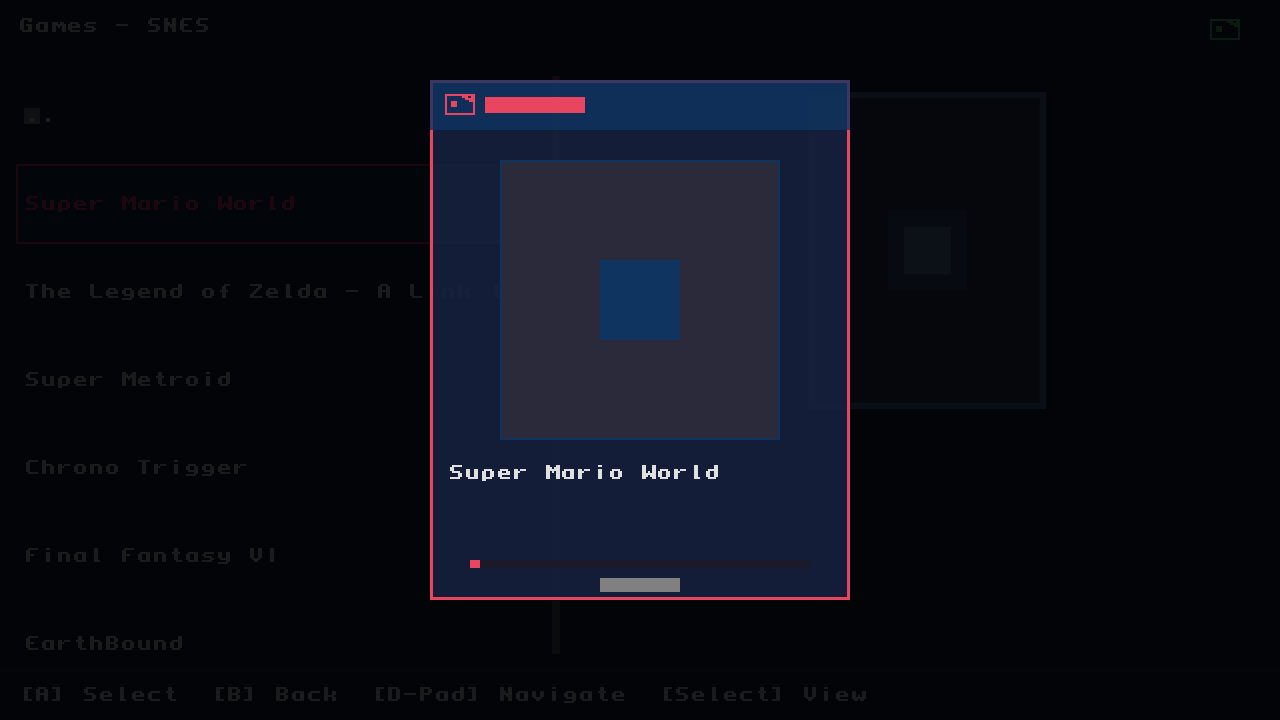
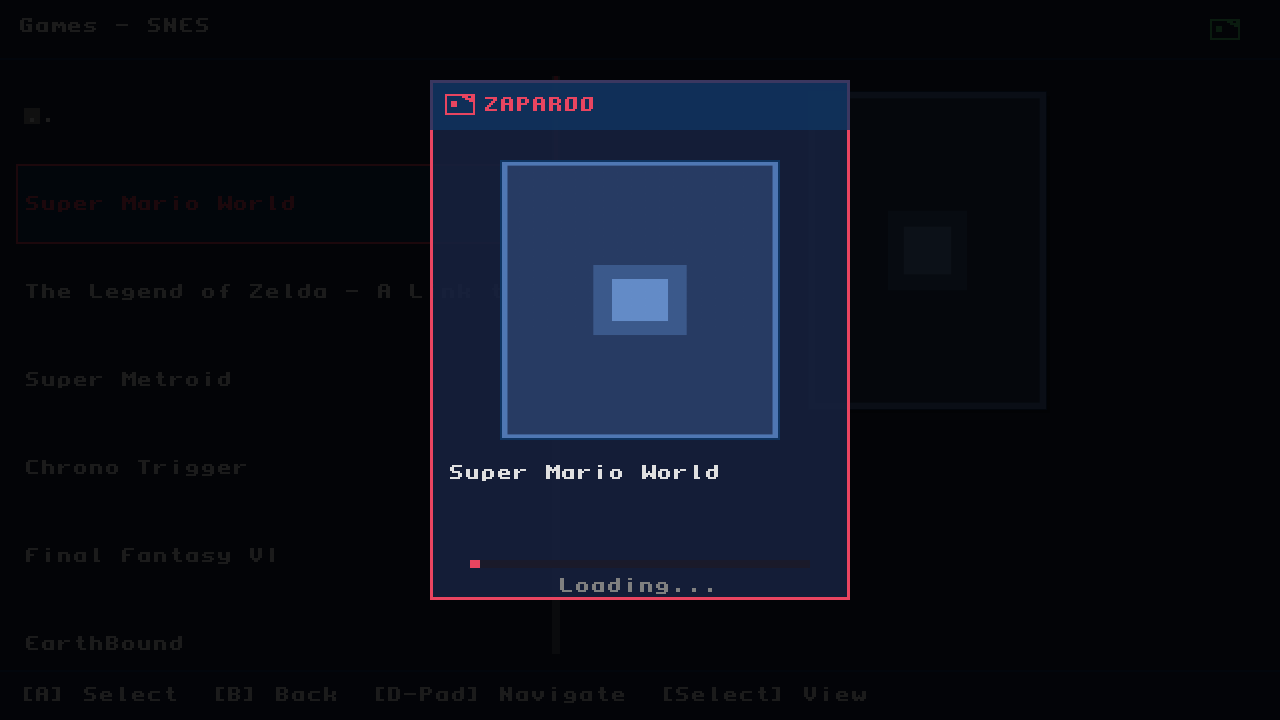
Improve Zaparoo overlay visuals and boxart handling
Replaces placeholder rectangles for the 'ZAPAROO' title and 'Loading...' text with actual text rendering. Adds support for displaying game boxart if available, with a fallback placeholder background if not. Updates the preview overlay image.

Changed region(s): [[0.375, 0.2139, 0.625, 0.6111], [0.375, 0.1222, 0.4688, 0.1833], [0.4375, 0.7944, 0.5312, 0.825]]

diff --git a/gfx_menu.cpp b/gfx_menu.cpp
@@ -1504,9 +1504,8 @@ static void render_zaparoo_overlay(Imlib_Image canvas)
 	// NFC icon in header
 	draw_nfc_icon(canvas, card_x + 15, card_y + 10, 30, theme->colors.text_highlight);
 
-	// "ZAPAROO" title placeholder
-	gfx_rect_t title_text = { card_x + 55, card_y + 17, 100, 16 };
-	draw_filled_rect(canvas, title_text, theme->colors.text_highlight);
+	// "ZAPAROO" title text
+	gfx_draw_text(canvas, "ZAPAROO", card_x + 55, card_y + 17, theme->colors.text_highlight);
 
 	// Boxart area (centered in card)
 	int art_w = 280;
@@ -1515,18 +1514,28 @@ static void render_zaparoo_overlay(Imlib_Image canvas)
 	int art_y = card_y + header_h + 30;
 
 	// Try to get boxart for the game
-	// For now, just draw a placeholder
+	Imlib_Image boxart = boxart_get_preview_image();
 	gfx_rect_t art_rect = { art_x, art_y, art_w, art_h };
-	gfx_color_t art_bg = gfx_color_hex(0xFF2a2a3a);
-	draw_filled_rect(canvas, art_rect, art_bg);
-	draw_rect_border(canvas, art_rect, theme->colors.panel_border, 2);
 
-	// Game icon placeholder in center of art area
-	int icon_size = 80;
-	gfx_rect_t icon = { art_x + (art_w - icon_size) / 2,
-	                    art_y + (art_h - icon_size) / 2,
-	                    icon_size, icon_size };
-	draw_filled_rect(canvas, icon, theme->colors.panel_border);
+	if (boxart)
+	{
+		imlib_context_set_image(boxart);
+		int src_w = imlib_image_get_width();
+		int src_h = imlib_image_get_height();
+
+		imlib_context_set_image(canvas);
+		imlib_context_set_blend(1);
+		imlib_blend_image_onto_image(boxart, 1,
+			0, 0, src_w, src_h,
+			art_x, art_y, art_w, art_h);
+	}
+	else
+	{
+		// Fallback placeholder
+		gfx_color_t art_bg = gfx_color_hex(0xFF2a2a3a);
+		draw_filled_rect(canvas, art_rect, art_bg);
+	}
+	draw_rect_border(canvas, art_rect, theme->colors.panel_border, 2);
 
 	// Game title area
 	int title_y = art_y + art_h + 25;
@@ -1561,10 +1570,9 @@ static void render_zaparoo_overlay(Imlib_Image canvas)
 	gfx_rect_t progress_fill = { progress_x, progress_y, fill_w, progress_h };
 	draw_filled_rect(canvas, progress_fill, theme->colors.selection_border);
 
-	// "Loading..." text placeholder
-	gfx_rect_t loading_text = { card_x + (card_width - 80) / 2,
-	                            progress_y + progress_h + 10, 80, 14 };
-	draw_filled_rect(canvas, loading_text, theme->colors.text_secondary);
+	// "Loading..." text
+	int loading_text_x = card_x + (card_width - 10 * 16) / 2; // Center "Loading..." (10 chars * 16px)
+	gfx_draw_text(canvas, "Loading...", loading_text_x, progress_y + progress_h + 10, theme->colors.text_secondary);
 }
 
 // Main render function
